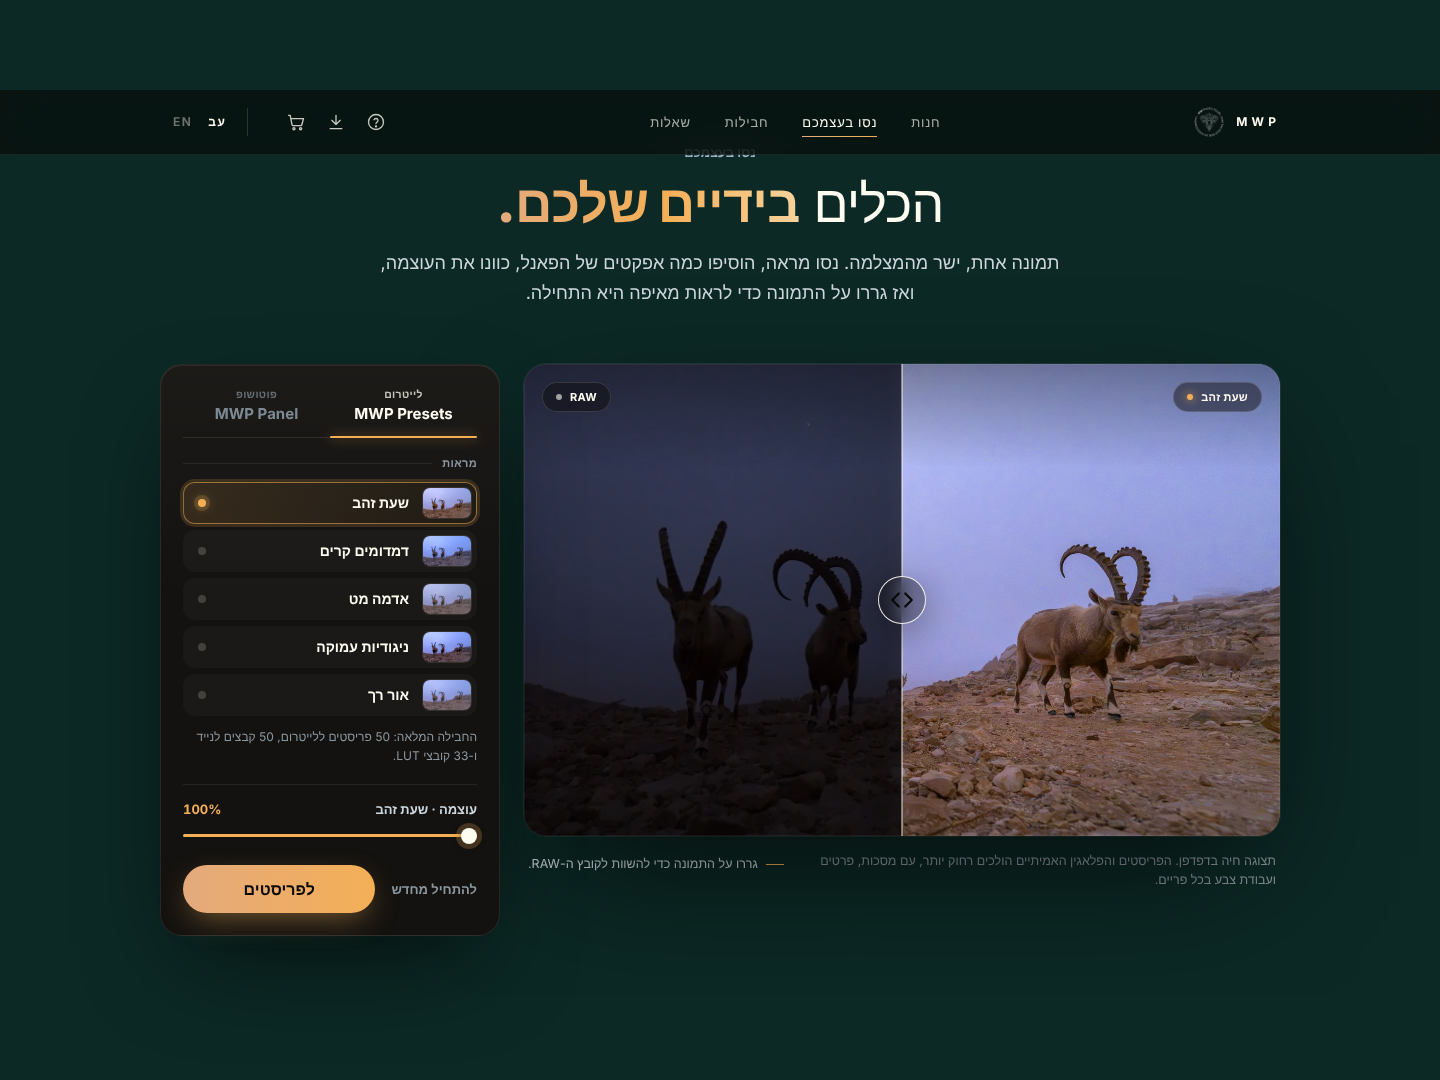
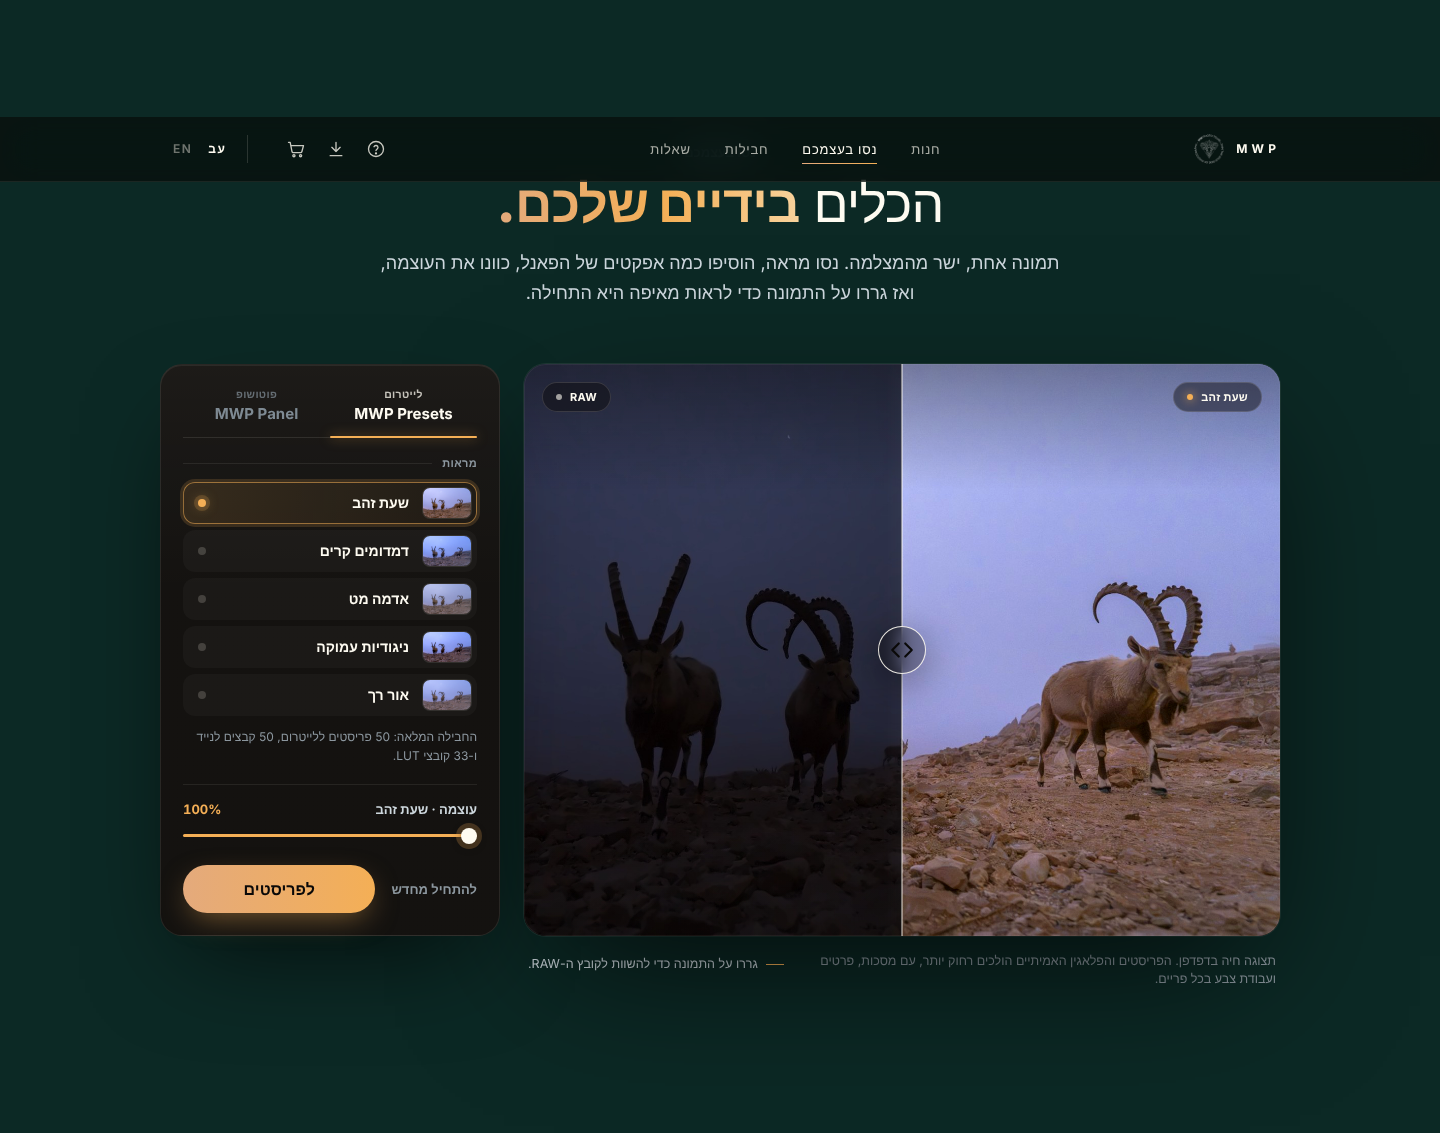
Home: uncrop headline descenders, space the collection intro, match Try it photo and tools heights
Claude-Session: https://claude.ai/code/session_01Rkg2iumG3K8kyevMhyA9YK

diff --git a/index.html b/index.html
@@ -301,10 +301,10 @@ a{color:#F4AF56}a:hover{color:#F8D29C}
 .hint{text-align:center;margin-top:12px}
 @media (max-width:600px){.ba{aspect-ratio:4/5;border-radius:18px}.rc,.rf{padding:6px 12px;font-size:13px}}
 
-.try{display:grid;grid-template-columns:minmax(0,1fr) 340px;gap:24px;margin-top:56px;align-items:start}
-.tview{min-width:0}
-.tstage{position:relative;border-radius:22px;overflow:hidden;background:#111;aspect-ratio:16/10;box-shadow:0 50px 140px -30px rgba(0,0,0,.75),0 0 0 1px rgba(254,251,241,.08);touch-action:pan-y;direction:ltr}
+.try{display:grid;grid-template-columns:minmax(0,1fr) 340px;column-gap:24px;margin-top:56px;align-items:stretch}
+.tstage{position:relative;border-radius:22px;overflow:hidden;background:#111;min-width:0;box-shadow:0 50px 140px -30px rgba(0,0,0,.75),0 0 0 1px rgba(254,251,241,.08);touch-action:pan-y;direction:ltr}
 .tstage::after{content:"";position:absolute;inset:0;pointer-events:none;background:linear-gradient(180deg,rgba(10,9,8,.38),transparent 22%,transparent 80%,rgba(10,9,8,.25));border-radius:inherit;box-shadow:inset 0 0 0 1px rgba(254,251,241,.06)}
+.tstage::before{content:"";display:block;padding-top:62.5%}
 .tstage img,.tstage canvas{position:absolute;inset:0;width:100%;height:100%;object-fit:cover;display:block}
 .tstage img[hidden]{display:none}
 .tstage .line{position:absolute;top:0;bottom:0;width:1px;background:rgba(254,251,241,.9);box-shadow:0 0 18px rgba(254,251,241,.45);transform:translateX(-.5px);pointer-events:none;z-index:2}
@@ -316,7 +316,7 @@ a{color:#F4AF56}a:hover{color:#F8D29C}
 .tstage .lbl::before{content:"";flex:none;width:6px;height:6px;border-radius:50%;background:rgba(254,251,241,.6)}
 .tstage .lbl.l{left:18px}.tstage .lbl.r{right:18px}
 .tstage .lbl.r::before{background:#F4AF56;box-shadow:0 0 10px #F4AF56}
-.tcap{display:flex;justify-content:space-between;align-items:baseline;gap:32px;margin:16px 4px 0;font-size:12.5px;line-height:1.5;color:#8C979F}
+.tcap{grid-column:1;display:flex;justify-content:space-between;align-items:baseline;gap:32px;margin:16px 4px 0;font-size:12.5px;line-height:1.5;color:#8C979F}
 .tcap p{margin:0}
 .tcap .hint{flex:none;color:#CDD7DD;display:inline-flex;align-items:center;gap:8px}
 .tcap .hint::before{content:"";width:18px;height:1px;background:#F4AF56}
@@ -366,8 +366,8 @@ a{color:#F4AF56}a:hover{color:#F8D29C}
 .reset:hover{color:#FEFBF1}
 .app .go{flex:1;display:flex;align-items:center;justify-content:center;min-height:48px;border-radius:30px;background:linear-gradient(90deg,#E4AA7C,#F4AF56);color:#0A0908;font-weight:800;text-decoration:none;box-shadow:0 10px 30px -8px rgba(244,175,86,.5);transition:transform .2s,box-shadow .2s}
 .app .go:hover{transform:translateY(-1px);box-shadow:0 16px 40px -10px rgba(244,175,86,.65)}
-@media (max-width:1180px){.try{grid-template-columns:minmax(0,1fr)}}
-@media (max-width:600px){.tstage{aspect-ratio:4/5;border-radius:18px}.app{padding:18px}.tcap{flex-direction:column;gap:8px}}
+@media (max-width:1180px){.try{grid-template-columns:minmax(0,1fr)}.app{order:2;margin-top:24px}}
+@media (max-width:600px){.tstage{border-radius:18px}.tstage::before{padding-top:125%}.app{padding:18px}.tcap{flex-direction:column;gap:8px}}
 html[lang=he] .tstage .lbl,html[lang=he] .grp,html[lang=he] .seg button small{letter-spacing:.03em}
 .fxgrid .look span{min-width:0}
 @media (prefers-reduced-motion:reduce){.panes>[data-pane],.seg::after{transition:none}}
@@ -565,7 +565,7 @@ html .nav .links + .navr{margin-inline-start:0}
 .st-hero-in .ctas{margin-top:36px}
 .st-h1{margin:18px 0 0;font-size:clamp(52px,8.4vw,132px);line-height:.94;font-weight:400;letter-spacing:-.04em;color:#FEFBF1}
 .st-h1 .grad{font-weight:600}
-.st-l{display:block;overflow:hidden;padding-bottom:.06em}
+.st-l{display:block;overflow:hidden;padding-bottom:.22em;margin-bottom:-.16em}
 .st-l > span{display:inline-block;animation:strise 1.2s cubic-bezier(.2,.7,.1,1) both;animation-delay:calc(var(--i) * .12s + .2s)}
 @keyframes strise{from{transform:translateY(105%)}to{transform:none}}
 .st-in{animation:stfade 1.1s cubic-bezier(.2,.7,.2,1) both;animation-delay:calc(var(--i) * .12s + .25s)}
@@ -573,7 +573,8 @@ html .nav .links + .navr{margin-inline-start:0}
 
 /* ---------- landing: pinned story ---------- */
 .st-ch{position:relative;background:#0A0908}
-.st-ch-head{display:flex;flex-direction:column;gap:16px;align-items:center;text-align:center;max-width:720px;margin:0 auto;padding-top:clamp(96px,14vh,160px)}
+.st-ch-head{display:flex;flex-direction:column;gap:16px;align-items:center;text-align:center;max-width:720px;margin:0 auto;padding-top:clamp(96px,14vh,160px);padding-bottom:clamp(56px,8vh,88px)}
+.st-ch-head .lead{text-wrap:balance}
 .st-track{position:relative;height:300vh}
 .st-sticky{position:sticky;top:0;height:100vh;overflow:hidden}
 .st-grid{position:relative;display:grid;grid-template-columns:minmax(0,1fr) minmax(0,1fr);height:100%;width:100%}
@@ -860,7 +861,6 @@ html[lang=he] body,html[lang=he] body *:not(svg):not(svg *),html body [lang=he],
 <p class="lead">One photo, straight from the camera. Try a look, stack a few Panel effects, set the amount, then drag across the photo to see where it started.</p>
 </div>
 <div class="try">
-<div class="tview">
 <div class="tstage" id="try-stage">
 <img id="try-before" src="assets/pages/img/try-raw-clean.jpg" alt="The RAW file as shot">
 <img id="try-base" src="assets/pages/img/fbaf19aea2af10f26b2949ab31fff094.jpg" alt="" hidden>
@@ -870,8 +870,6 @@ html[lang=he] body,html[lang=he] body *:not(svg):not(svg *),html body [lang=he],
 <span class="lbl l">RAW</span>
 <span class="lbl r" id="try-tag" data-no-i18n>Your edit</span>
 <input type="range" id="try-split" min="0" max="100" value="50" aria-label="Drag to compare with the RAW file">
-</div>
-<div class="tcap"><p>Live preview in your browser. The real presets and plugin go further, with masks, detail and colour work on every frame.</p><p class="hint">Drag across the photo to compare with the RAW file.</p></div>
 </div>
 <aside class="app" aria-label="Try the tools">
 <div class="seg" data-on="presets" role="group" aria-label="Choose a tool">
@@ -893,6 +891,7 @@ html[lang=he] body,html[lang=he] body *:not(svg):not(svg *),html body [lang=he],
 <div class="amt off"><label for="try-amount" id="try-amt-name" data-no-i18n>Amount</label><output id="try-amt" for="try-amount">0%</output><input type="range" id="try-amount" min="0" max="100" value="0"></div>
 <div class="acts"><button type="button" class="reset" id="try-reset">Start again</button><a class="go" id="try-cta" href="presets/">Get MWP Presets</a></div>
 </aside>
+<div class="tcap"><p>Live preview in your browser. The real presets and plugin go further, with masks, detail and colour work on every frame.</p><p class="hint">Drag across the photo to compare with the RAW file.</p></div>
 </div>
 </div>
 </section>

diff --git a/tools/home_try.py b/tools/home_try.py
@@ -24,10 +24,10 @@ EFFECTS = [("pop", "Subject · Pop"), ("bg", "Background · Darken"), ("sky", "S
 LOCKED = ["Eye", "Dodge & Burn"]
 
 CSS = """
-.try{display:grid;grid-template-columns:minmax(0,1fr) 340px;gap:24px;margin-top:56px;align-items:start}
-.tview{min-width:0}
-.tstage{position:relative;border-radius:22px;overflow:hidden;background:#111;aspect-ratio:16/10;box-shadow:0 50px 140px -30px rgba(0,0,0,.75),0 0 0 1px rgba(254,251,241,.08);touch-action:pan-y;direction:ltr}
+.try{display:grid;grid-template-columns:minmax(0,1fr) 340px;column-gap:24px;margin-top:56px;align-items:stretch}
+.tstage{position:relative;border-radius:22px;overflow:hidden;background:#111;min-width:0;box-shadow:0 50px 140px -30px rgba(0,0,0,.75),0 0 0 1px rgba(254,251,241,.08);touch-action:pan-y;direction:ltr}
 .tstage::after{content:"";position:absolute;inset:0;pointer-events:none;background:linear-gradient(180deg,rgba(10,9,8,.38),transparent 22%,transparent 80%,rgba(10,9,8,.25));border-radius:inherit;box-shadow:inset 0 0 0 1px rgba(254,251,241,.06)}
+.tstage::before{content:"";display:block;padding-top:62.5%}
 .tstage img,.tstage canvas{position:absolute;inset:0;width:100%;height:100%;object-fit:cover;display:block}
 .tstage img[hidden]{display:none}
 .tstage .line{position:absolute;top:0;bottom:0;width:1px;background:rgba(254,251,241,.9);box-shadow:0 0 18px rgba(254,251,241,.45);transform:translateX(-.5px);pointer-events:none;z-index:2}
@@ -39,7 +39,7 @@ CSS = """
 .tstage .lbl::before{content:"";flex:none;width:6px;height:6px;border-radius:50%;background:rgba(254,251,241,.6)}
 .tstage .lbl.l{left:18px}.tstage .lbl.r{right:18px}
 .tstage .lbl.r::before{background:#F2A541;box-shadow:0 0 10px #F2A541}
-.tcap{display:flex;justify-content:space-between;align-items:baseline;gap:32px;margin:16px 4px 0;font-size:12.5px;line-height:1.5;color:#8C979F}
+.tcap{grid-column:1;display:flex;justify-content:space-between;align-items:baseline;gap:32px;margin:16px 4px 0;font-size:12.5px;line-height:1.5;color:#8C979F}
 .tcap p{margin:0}
 .tcap .hint{flex:none;color:#CDD7DD;display:inline-flex;align-items:center;gap:8px}
 .tcap .hint::before{content:"";width:18px;height:1px;background:#F2A541}
@@ -89,8 +89,8 @@ CSS = """
 .reset:hover{color:#FEFBF1}
 .app .go{flex:1;display:flex;align-items:center;justify-content:center;min-height:48px;border-radius:30px;background:linear-gradient(90deg,#DA5A22,#F2A541);color:#0A0908;font-weight:800;text-decoration:none;box-shadow:0 10px 30px -8px rgba(242,165,65,.5);transition:transform .2s,box-shadow .2s}
 .app .go:hover{transform:translateY(-1px);box-shadow:0 16px 40px -10px rgba(242,165,65,.65)}
-@media (max-width:1180px){.try{grid-template-columns:minmax(0,1fr)}}
-@media (max-width:600px){.tstage{aspect-ratio:4/5;border-radius:18px}.app{padding:18px}.tcap{flex-direction:column;gap:8px}}
+@media (max-width:1180px){.try{grid-template-columns:minmax(0,1fr)}.app{order:2;margin-top:24px}}
+@media (max-width:600px){.tstage{border-radius:18px}.tstage::before{padding-top:125%}.app{padding:18px}.tcap{flex-direction:column;gap:8px}}
 html[lang=he] .tstage .lbl,html[lang=he] .grp,html[lang=he] .seg button small{letter-spacing:.03em}
 .fxgrid .look span{min-width:0}
 @media (prefers-reduced-motion:reduce){.panes>[data-pane],.seg::after{transition:none}}
@@ -115,7 +115,6 @@ def html():
 <p class="lead">One photo, straight from the camera. Try a look, stack a few Panel effects, set the amount, then drag across the photo to see where it started.</p>
 </div>
 <div class="try">
-<div class="tview">
 <div class="tstage" id="try-stage">
 <img id="try-before" src="{IMG}{RAW}" alt="The RAW file as shot">
 <img id="try-base" src="{IMG}{BASE}" alt="" hidden>
@@ -125,8 +124,6 @@ def html():
 <span class="lbl l">RAW</span>
 <span class="lbl r" id="try-tag" data-no-i18n>Your edit</span>
 <input type="range" id="try-split" min="0" max="100" value="50" aria-label="Drag to compare with the RAW file">
-</div>
-<div class="tcap"><p>Live preview in your browser. The real presets and plugin go further, with masks, detail and colour work on every frame.</p><p class="hint">Drag across the photo to compare with the RAW file.</p></div>
 </div>
 <aside class="app" aria-label="Try the tools">
 <div class="seg" data-on="presets" role="group" aria-label="Choose a tool">
@@ -148,6 +145,7 @@ def html():
 <div class="amt off"><label for="try-amount" id="try-amt-name" data-no-i18n>Amount</label><output id="try-amt" for="try-amount">0%</output><input type="range" id="try-amount" min="0" max="100" value="0"></div>
 <div class="acts"><button type="button" class="reset" id="try-reset">Start again</button><a class="go" id="try-cta" href="presets/">Get MWP Presets</a></div>
 </aside>
+<div class="tcap"><p>Live preview in your browser. The real presets and plugin go further, with masks, detail and colour work on every frame.</p><p class="hint">Drag across the photo to compare with the RAW file.</p></div>
 </div>
 </div>
 </section>"""

diff --git a/tools/home_story.py b/tools/home_story.py
@@ -107,7 +107,7 @@ CSS = home_devices.CSS + """
 .st-hero-in .ctas{margin-top:36px}
 .st-h1{margin:18px 0 0;font-size:clamp(52px,8.4vw,132px);line-height:.94;font-weight:400;letter-spacing:-.04em;color:#FEFBF1}
 .st-h1 .grad{font-weight:600}
-.st-l{display:block;overflow:hidden;padding-bottom:.06em}
+.st-l{display:block;overflow:hidden;padding-bottom:.22em;margin-bottom:-.16em}
 .st-l > span{display:inline-block;animation:strise 1.2s cubic-bezier(.2,.7,.1,1) both;animation-delay:calc(var(--i) * .12s + .2s)}
 @keyframes strise{from{transform:translateY(105%)}to{transform:none}}
 .st-in{animation:stfade 1.1s cubic-bezier(.2,.7,.2,1) both;animation-delay:calc(var(--i) * .12s + .25s)}
@@ -115,7 +115,8 @@ CSS = home_devices.CSS + """
 
 /* ---------- landing: pinned story ---------- */
 .st-ch{position:relative;background:#0A0908}
-.st-ch-head{display:flex;flex-direction:column;gap:16px;align-items:center;text-align:center;max-width:720px;margin:0 auto;padding-top:clamp(96px,14vh,160px)}
+.st-ch-head{display:flex;flex-direction:column;gap:16px;align-items:center;text-align:center;max-width:720px;margin:0 auto;padding-top:clamp(96px,14vh,160px);padding-bottom:clamp(56px,8vh,88px)}
+.st-ch-head .lead{text-wrap:balance}
 .st-track{position:relative;height:300vh}
 .st-sticky{position:sticky;top:0;height:100vh;overflow:hidden}
 .st-grid{position:relative;display:grid;grid-template-columns:minmax(0,1fr) minmax(0,1fr);height:100%;width:100%}
